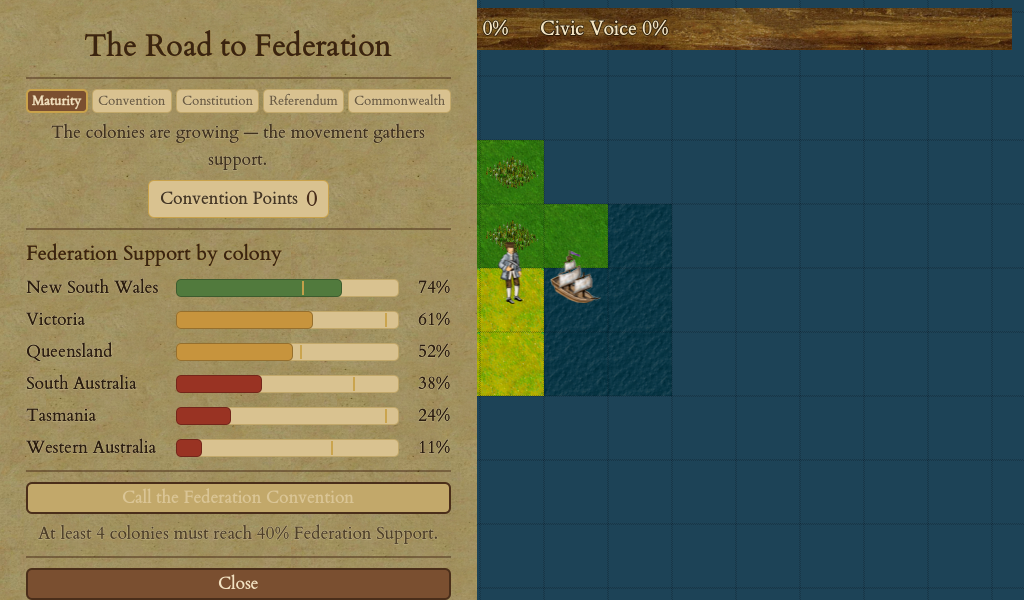
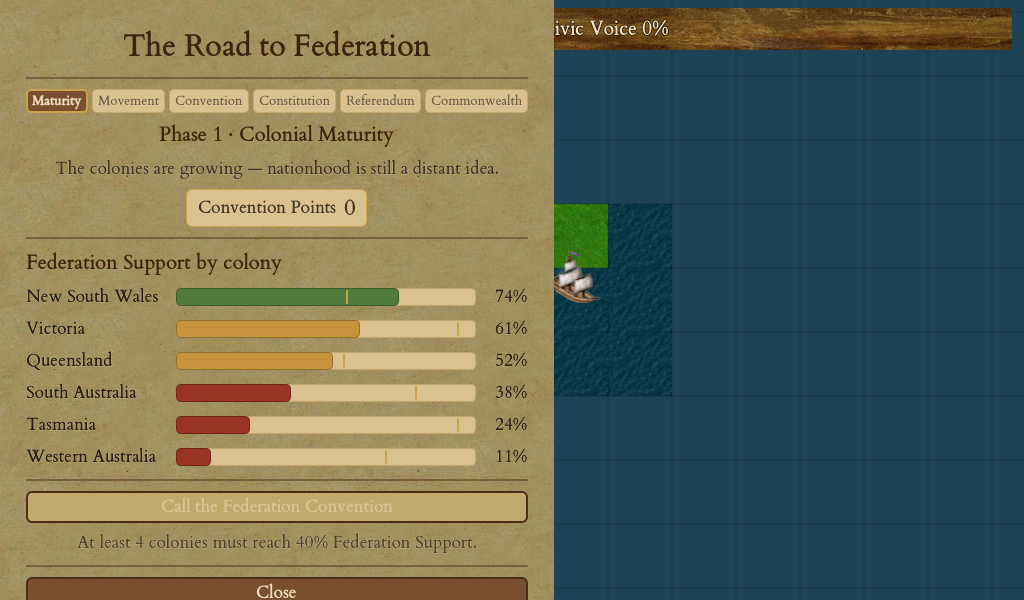
feat(australia): WS3.8 — six named Federation stages + era indicator
Federation depth (WS3), presentation-only. The design (doc 05) has six
narrative phases; the mechanical FederationPhase machine has five states.
A new pure oracle Game.CurrentFederationStage maps the mechanical state to
the six named stages (Colonial Maturity, Federation Movement, Convention
Process, Draft Constitution, Referendums, Commonwealth), splitting the two
that share the ColonialMaturity state by the calendar: Federation Movement
once the 1889+ Federation era begins (CurrentEventEra == EventEra.Federation,
reusing the 4c.10 era bands, not a magic year). Returns None for classic.

The FederationPanel phase tracker grew from five to six steps and gained a
gold era-indicator header ("Phase 2 · Federation Movement"); the narrative
line folds in design Phase 6 (Failure/Retry) after a failed vote.

No new game state (pure derived read, no save bump) so classic stays
byte-identical. +2 L1 (six-stage mapping incl. the 1889 Maturity to Movement
split + classic None) +2 L3 (six-step tracker + the era indicator names the
current phase, not a hard-coded one). Full L1/L2 2960 + determinism soak
green. Render-verified (australia-federation.png).

Changed region(s): [[0.0, 0.0, 0.5625, 1.0], [0.0625, 0.03, 0.4375, 0.09]]

diff --git a/game/presentation/FederationPanel.cs b/game/presentation/FederationPanel.cs
@@ -16,7 +16,8 @@ namespace CrownAndColony.Presentation;
 /// (<see cref="Specification.Ruleset.VictoryFederation"/> — false for classic, so the classic HUD is untouched).
 ///
 /// <para>Pure presentation (ADR-006): every reading comes from a <see cref="Game"/> oracle — per-region support
-/// (<see cref="Game.RegionSupportSummary"/>), the phase (<see cref="Game.FederationPhase"/>), the points
+/// (<see cref="Game.RegionSupportSummary"/>), the campaign stage (<see cref="Game.CurrentFederationStage"/> — the six
+/// named design phases), the points
 /// (<see cref="Game.ConventionPoints"/>), each region's own referendum target (<see cref="Game.ReferendumTargetFor"/>) and the two
 /// action gates (<see cref="Game.CheckCallConvention"/> / <see cref="Game.CheckPutToReferendum"/>). The only mutations are
 /// the forwarded commands (<see cref="Game.CallConvention"/> / <see cref="Game.HoldReferendum"/>); all the rules
@@ -51,14 +52,15 @@ public partial class FederationPanel : PanelContainer
     private static readonly Color SupportMid = new(0.78f, 0.58f, 0.24f);   // ochre/amber — climbing toward the bar
     private static readonly Color SupportReady = new(0.32f, 0.48f, 0.24f); // muted federation-green — at/over the referendum bar
 
-    /// <summary>The five phases of the road to Federation, in journey order, for the step tracker.</summary>
-    private static readonly (FederationPhase Phase, string Label)[] PhaseSteps =
+    /// <summary>The six narrative stages of the road to Federation (design doc 05), in journey order, for the step tracker (WS3.8).</summary>
+    private static readonly (FederationStage Stage, string Label)[] StageSteps =
     {
-        (FederationPhase.ColonialMaturity, "Maturity"),
-        (FederationPhase.ConventionCalled, "Convention"),
-        (FederationPhase.ConstitutionDrafted, "Constitution"),
-        (FederationPhase.Referendum, "Referendum"),
-        (FederationPhase.Commonwealth, "Commonwealth"),
+        (FederationStage.ColonialMaturity, "Maturity"),
+        (FederationStage.FederationMovement, "Movement"),
+        (FederationStage.ConventionProcess, "Convention"),
+        (FederationStage.DraftConstitution, "Constitution"),
+        (FederationStage.Referendum, "Referendum"),
+        (FederationStage.Commonwealth, "Commonwealth"),
     };
 
     /// <summary>The six colony regions' display names, keyed by their <c>model.region.*</c> key (Australia-only; hard-coded).</summary>
@@ -125,14 +127,29 @@ public partial class FederationPanel : PanelContainer
         Show();
     }
 
-    /// <summary>The current phase's player-facing narrative sentence (Australian narrative), read from the <see cref="Game.FederationPhase"/> oracle.</summary>
-    private static string PhaseName(FederationPhase phase) => phase switch
+    /// <summary>The design phase number + name for the era indicator (WS3.8 — doc 05's six named phases).</summary>
+    private static (int Number, string Name) StageHeading(FederationStage stage) => stage switch
     {
-        FederationPhase.ColonialMaturity => "The colonies are growing — the movement gathers support.",
-        FederationPhase.ConventionCalled => "The Federation Convention has been called — the constitution is being drafted.",
-        FederationPhase.ConstitutionDrafted => "The draft constitution is complete — a referendum may be held.",
-        FederationPhase.Referendum => "A Federation referendum is under way.",
-        FederationPhase.Commonwealth => "The Commonwealth of Australia is proclaimed — Federation is achieved!",
+        FederationStage.ColonialMaturity => (1, "Colonial Maturity"),
+        FederationStage.FederationMovement => (2, "Federation Movement"),
+        FederationStage.ConventionProcess => (3, "Convention Process"),
+        FederationStage.DraftConstitution => (4, "Draft Constitution"),
+        FederationStage.Referendum => (5, "Referendums"),
+        FederationStage.Commonwealth => (6, "Commonwealth"),
+        _ => (0, ""),
+    };
+
+    /// <summary>The current stage's player-facing narrative sentence (WS3.8), read from the <see cref="Game.CurrentFederationStage"/> oracle. The Referendum stage folds in design Phase 6 (Failure and Retry) after a failed vote.</summary>
+    private string StageNarrative(FederationStage stage) => stage switch
+    {
+        FederationStage.ColonialMaturity => "The colonies are growing — nationhood is still a distant idea.",
+        FederationStage.FederationMovement => "The Federation movement is astir — leagues and orators press the cause across the colonies.",
+        FederationStage.ConventionProcess => "The Federation Convention has been called — the constitution is being drafted.",
+        FederationStage.DraftConstitution => "The draft constitution is complete — a referendum may be held.",
+        FederationStage.Referendum => _game.ReferendumAttempts > 0 && !_game.ReferendumCarried
+            ? "The last referendum failed — the movement must rebuild support before trying again."
+            : "A Federation referendum is under way.",
+        FederationStage.Commonwealth => "The Commonwealth of Australia is proclaimed — Federation is achieved!",
         _ => "",
     };
 
@@ -141,12 +158,26 @@ public partial class FederationPanel : PanelContainer
     {
         ClearBody();
 
-        _body.AddChild(BuildPhaseTracker(_game.FederationPhase));
+        FederationStage stage = _game.CurrentFederationStage; // WS3.8: the design's six named phases, mapped from the mechanical state
+        _body.AddChild(BuildPhaseTracker(stage));
+
+        // Era indicator: names the current design phase ("Phase 2 · Federation Movement") above the narrative line.
+        (int number, string name) = StageHeading(stage);
+        if (number > 0)
+        {
+            _body.AddChild(new Label
+            {
+                Name = "StageName",
+                Text = $"Phase {number} · {name}",
+                HorizontalAlignment = HorizontalAlignment.Center,
+                ThemeTypeVariation = "SectionHeader", // the theme's section-header variation (gold, larger)
+            });
+        }
 
         var phaseLine = new Label
         {
             Name = "PhaseLine",
-            Text = PhaseName(_game.FederationPhase),
+            Text = StageNarrative(stage),
             HorizontalAlignment = HorizontalAlignment.Center,
             AutowrapMode = TextServer.AutowrapMode.WordSmart,
         };
@@ -172,27 +203,28 @@ public partial class FederationPanel : PanelContainer
     }
 
     /// <summary>
-    /// The five-step phase tracker: one chip per stage of the road to Federation, in journey order. The stage the movement
-    /// has reached is lit (wood face + gold edge, cream text); completed stages read as filled dark wood; stages still ahead
-    /// sit as dim recessed parchment — so the player sees at a glance how far the movement has come.
+    /// The six-step phase tracker (WS3.8 — doc 05's named stages): one chip per stage of the road to Federation, in journey
+    /// order. The stage the movement has reached is lit (wood face + gold edge, cream text); completed stages read as filled
+    /// dark wood; stages still ahead sit as dim recessed parchment — so the player sees at a glance how far the movement has
+    /// come. Driven by <see cref="Game.CurrentFederationStage"/> (which splits Maturity vs Movement by the calendar).
     /// </summary>
-    private Control BuildPhaseTracker(FederationPhase current)
+    private Control BuildPhaseTracker(FederationStage current)
     {
-        int currentIndex = Array.FindIndex(PhaseSteps, s => s.Phase == current);
+        int currentIndex = Array.FindIndex(StageSteps, s => s.Stage == current);
         var tracker = new HBoxContainer { Name = "PhaseTracker", Alignment = BoxContainer.AlignmentMode.Center };
         tracker.AddThemeConstantOverride("separation", 4);
 
-        for (int i = 0; i < PhaseSteps.Length; i++)
+        for (int i = 0; i < StageSteps.Length; i++)
         {
             bool active = i == currentIndex;
             bool done = i < currentIndex;
             Color bg = active ? WoodMid : done ? WoodDark : ParchmentDark;
             Color border = active ? Gold : ParchmentEdge;
 
-            var chip = new PanelContainer { Name = $"Phase_{PhaseSteps[i].Phase}" };
+            var chip = new PanelContainer { Name = $"Phase_{StageSteps[i].Stage}" };
             chip.AddThemeStyleboxOverride("panel", Flat(bg, border, active ? 2 : 1, 4, 6, 3));
 
-            var label = new Label { Text = PhaseSteps[i].Label, HorizontalAlignment = HorizontalAlignment.Center };
+            var label = new Label { Text = StageSteps[i].Label, HorizontalAlignment = HorizontalAlignment.Center };
             label.AddThemeColorOverride("font_color", active || done ? TextOnWood : new Color(Ink, 0.62f)); // future stages dimmed but legible
             label.AddThemeFontSizeOverride("font_size", 13);
             chip.AddChild(label);

diff --git a/game/presentation/tests/FederationPanelTests.cs b/game/presentation/tests/FederationPanelTests.cs
@@ -1,6 +1,7 @@
 using System.Threading.Tasks;
 using CrownAndColony.GameLogic.Colonies;
 using CrownAndColony.GameLogic.GameSession;
+using CrownAndColony.GameLogic.Persistence;
 using CrownAndColony.GameLogic.Specification;
 using CrownAndColony.GameLogic.Units;
 using CrownAndColony.GameLogic.World;
@@ -88,10 +89,12 @@ public class FederationPanelTests
         await runner.SimulateFrames(1);
 
         var body = panel.GetNode<VBoxContainer>($"VBox/{FederationPanel.BodyName}");
-        // The five-step phase tracker, with a chip per phase.
+        // The six-step phase tracker (WS3.8 — doc 05's named stages), with a chip per stage.
         var tracker = body.GetNodeOrNull<HBoxContainer>("PhaseTracker");
         AssertThat(tracker).IsNotNull();
-        AssertThat(tracker!.GetChildCount()).IsEqual(5);
+        AssertThat(tracker!.GetChildCount()).IsEqual(6);
+        // The era indicator names the current design phase.
+        AssertThat(body.GetNode<Label>("StageName").Text).Contains("Colonial Maturity"); // a fresh 1788 game → Phase 1
         // Each region's bar is a styled gauge (recessed trough + coloured fill), not a stock ProgressBar.
         var bar = body.GetNode<ProgressBar>("Region_newSouthWales/Bar");
         AssertThat(bar.HasThemeStyleboxOverride("fill")).IsTrue();
@@ -100,6 +103,31 @@ public class FederationPanelTests
         AssertThat(bar.GetNodeOrNull("ReferendumMark")).IsNotNull();
         // The title carries the theme's display-title variation (designed hierarchy).
         AssertThat(panel.GetNode<Label>("VBox/FederationTitle").ThemeTypeVariation.ToString()).IsEqual("ColonyTitle");
+
+        panel.QueueFree();
+    }
+
+    [TestCase]
+    public async Task Open_NamesTheCurrentDesignPhase_AsAnEraIndicator_NotHardcoded()
+    {
+        // WS3.8: the era indicator names the design phase for the current mechanical state. Advance to ConstitutionDrafted
+        // via the save layer (public) so the label must read Game.CurrentFederationStage, not a hard-coded Phase 1.
+        ISceneRunner runner = ISceneRunner.Load("res://scenes/MainMenu.tscn");
+        await runner.SimulateFrames(2);
+        var host = (Control)runner.Scene();
+
+        Game game = NewAustralia();
+        FoundIn(game, AustraliaColony.NewSouthWales);
+        Game drafted = (SaveGame.From(game, "australia") with { FederationPhase = (int)FederationPhase.ConstitutionDrafted })
+            .Restore(Australia);
+        FederationPanel panel = AddPanel(host);
+
+        panel.Open(drafted, () => { });
+        await runner.SimulateFrames(1);
+
+        var stageName = panel.GetNode<Label>($"VBox/{FederationPanel.BodyName}/StageName");
+        AssertThat(stageName.Text).Contains("Phase 4");
+        AssertThat(stageName.Text).Contains("Draft Constitution");
 
         panel.QueueFree();
     }

diff --git a/game/tests/GameLogic.Tests/GameSession/FederationVictoryTests.cs b/game/tests/GameLogic.Tests/GameSession/FederationVictoryTests.cs
@@ -310,6 +310,39 @@ public class FederationVictoryTests
         Assert.Equal(94, restored.ReferendumTargetFor("model.region.tasmania")); // untouched regions keep their base target
     }
 
+    // ─────────────────────────────── narrative stages (WS3.8) ───────────────────────────────
+
+    [Fact]
+    public void CurrentFederationStage_MapsTheMechanicalPhase_ToTheSixDesignStages()
+    {
+        Assert.Equal(FederationStage.None, Game.New(Classic, Seed).CurrentFederationStage); // classic — no campaign
+
+        Game game = NewAustralia();
+        // A fresh 1788 Australia game: mechanical ColonialMaturity, before the 1889 Federation era → Colonial Maturity.
+        Assert.Equal(FederationStage.ColonialMaturity, game.CurrentFederationStage);
+
+        game.SetFederationPhase(FederationPhase.ConventionCalled);
+        Assert.Equal(FederationStage.ConventionProcess, game.CurrentFederationStage);
+        game.SetFederationPhase(FederationPhase.ConstitutionDrafted);
+        Assert.Equal(FederationStage.DraftConstitution, game.CurrentFederationStage);
+        game.SetFederationPhase(FederationPhase.Referendum);
+        Assert.Equal(FederationStage.Referendum, game.CurrentFederationStage);
+        game.SetFederationPhase(FederationPhase.Commonwealth);
+        Assert.Equal(FederationStage.Commonwealth, game.CurrentFederationStage);
+    }
+
+    [Fact]
+    public void CurrentFederationStage_IsFederationMovement_OnceThe1889EraBegins_WhileStillAtColonialMaturity()
+    {
+        // Advance an Australia game into the 1889+ Federation era (via the save layer's turn) while still mechanically at
+        // ColonialMaturity → the narrative stage becomes Federation Movement (design Phase 2, the same mechanical state).
+        Game game = NewAustralia();
+        Game late = (SaveGame.From(game, "australia") with { Turn = 140 }).Restore(Australia); // turn 140 = 1889+ on the Australian calendar
+        Assert.True(late.CurrentYear >= 1889, "turn 140 must sit in the 1889+ Federation era");
+        Assert.Equal(FederationPhase.ColonialMaturity, late.FederationPhase); // still mechanically at maturity
+        Assert.Equal(FederationStage.FederationMovement, late.CurrentFederationStage);
+    }
+
     [Fact]
     public void FederationState_RoundTripsThroughASave()
     {

diff --git a/game/src/GameLogic/GameSession/Game.Federation.cs b/game/src/GameLogic/GameSession/Game.Federation.cs
@@ -103,6 +103,36 @@ public sealed partial class Game
     public FederationPhase FederationPhase => _federationPhase;
 
     /// <summary>
+    /// The current player-facing <b>narrative stage</b> of the Federation campaign (WS3.8) — the design's six named phases
+    /// (doc 05) mapped from the mechanical <see cref="FederationPhase"/> plus the calendar. Within
+    /// <see cref="FederationPhase.ColonialMaturity"/> the stage is <see cref="FederationStage.FederationMovement"/> once the
+    /// 1889+ Federation era has begun (<see cref="CurrentEventEra"/> = <see cref="EventEra.Federation"/>), else
+    /// <see cref="FederationStage.ColonialMaturity"/>; the other mechanical states map one-to-one. A pure, RNG-free read
+    /// (no persisted state) the Federation panel labels its phase tracker + era indicator from (ADR-006).
+    /// <see cref="FederationStage.None"/> for a classic game (no Federation campaign), so nothing is shown there.
+    /// </summary>
+    public FederationStage CurrentFederationStage
+    {
+        get
+        {
+            if (!Ruleset.VictoryFederation)
+            {
+                return FederationStage.None; // classic — no Federation campaign
+            }
+            return _federationPhase switch
+            {
+                FederationPhase.ColonialMaturity =>
+                    CurrentEventEra == EventEra.Federation ? FederationStage.FederationMovement : FederationStage.ColonialMaturity,
+                FederationPhase.ConventionCalled => FederationStage.ConventionProcess,
+                FederationPhase.ConstitutionDrafted => FederationStage.DraftConstitution,
+                FederationPhase.Referendum => FederationStage.Referendum,
+                FederationPhase.Commonwealth => FederationStage.Commonwealth,
+                _ => FederationStage.ColonialMaturity,
+            };
+        }
+    }
+
+    /// <summary>
     /// The nation-level <b>Convention Points</b> banked toward drafting the constitution and calling a convention
     /// (Phase-4a). Accrues alongside Federation Support from the human's Civic Voice; 0 for a classic game. Persisted
     /// (v72, omitted when 0).

diff --git a/game/src/GameLogic/GameSession/FederationPhase.cs b/game/src/GameLogic/GameSession/FederationPhase.cs
@@ -50,3 +50,37 @@ public enum FederationPhase
     /// </summary>
     Commonwealth = 4,
 }
+
+/// <summary>
+/// The player-facing <b>narrative stage</b> of the Federation campaign (WS3.8) — the design's six named phases
+/// (doc 05: Colonial Maturity → Federation Movement → Convention Process → Draft Constitution → Referendums → the
+/// Commonwealth win), mapped from the coarser mechanical <see cref="FederationPhase"/> by
+/// <see cref="Game.CurrentFederationStage"/>. Two of them share one mechanical state and are told apart by context:
+/// <see cref="ColonialMaturity"/> vs <see cref="FederationMovement"/> (the movement is under way once the 1889+ Federation
+/// era has begun — <see cref="Game.EventEra.Federation"/>), both within <see cref="FederationPhase.ColonialMaturity"/>.
+/// Design Phase 6 (Failure and Retry) is not a forward stage — it is surfaced in the panel's narrative when a referendum
+/// has failed. Pure presentation labelling (no persisted state); <see cref="None"/> for a classic game (no campaign).
+/// </summary>
+public enum FederationStage
+{
+    /// <summary>Not a Federation game (classic) — there is no campaign stage to show.</summary>
+    None,
+
+    /// <summary>Design Phase 1 — the colonies grow and mature toward nationhood (before the 1889 Federation era).</summary>
+    ColonialMaturity,
+
+    /// <summary>Design Phase 2 — the Federation movement gathers (the 1889+ Federation era), before a convention is called.</summary>
+    FederationMovement,
+
+    /// <summary>Design Phase 3 — the Federation Convention sits and drafts the constitution.</summary>
+    ConventionProcess,
+
+    /// <summary>Design Phase 4 — the draft constitution is complete; a referendum may be put.</summary>
+    DraftConstitution,
+
+    /// <summary>Design Phase 5 — a referendum is under way (design Phase 6, Failure/Retry, is a narrative note here after a failed vote).</summary>
+    Referendum,
+
+    /// <summary>The Commonwealth is proclaimed — the human has won by Federation.</summary>
+    Commonwealth,
+}

diff --git a/docs/systems/federation-victory.md b/docs/systems/federation-victory.md
@@ -100,11 +100,12 @@ The point/support/reduction magnitudes are balance placeholders (see §5 — Chr
 *Audience: developers / future Claude sessions.*
 
 **Domain model:**
-- `FederationPhase` (enum) — the five-state machine; ordinal-persisted.
+- `FederationPhase` (enum) — the five-state mechanical machine; ordinal-persisted.
+- `FederationStage` (enum, WS3.8) — the design's **six named narrative phases** (Colonial Maturity → Federation Movement → Convention Process → Draft Constitution → Referendums → Commonwealth). A presentation view, not persisted; derived by `Game.CurrentFederationStage` (pure read, `None` for classic) which splits Maturity vs Movement on `CurrentEventEra == EventEra.Federation` (the 1889+ band).
 - `Game.Federation.cs` (partial `Game`) — owns the phase, Convention Points, referendum state, the accrual hook, the per-region aggregates, the action commands/gates, and the end-turn resolution. Pure C#, engine-free (ADR-006).
 - `Colony.FederationSupport` / `AddFederationSupport` / `FederationSupportPercent` — the per-colony banked support, modelled exactly on `Liberty` / `AddLiberty` / `SonsOfLiberty`.
 - **Per-region targets (WS3.2):** `Ruleset.FederationRegionTargets` (region key → target %, parsed from the spec) holds each region's historical referendum bar; `Game.ReferendumTargetFor(regionKey)` = base target (or the uniform `RegionSupportForReferendum` = 50 fallback) minus any banked reduction, clamped 0–100; `Game.ReduceFederationTarget` / `ReduceHardestRegionTarget` bank Pioneer target cuts into the persisted `_federationTargetReductions` map. Classic authors no targets → every region reads the uniform fallback (byte-identical).
-- `FederationPanel` (presentation) — renders the oracles and forwards the two commands; no rules. **Designed treatment (WS2.7):** on the parchment/wood theme it shows a five-step **phase tracker** (the current stage lit), each colony's support as a **styled gauge** (recessed trough, support-coloured fill — barn-red / ochre / federation-green by how it sits against the referendum bar — and a gold **threshold marker** at the bar, read from the new `Game.ReferendumSupportThreshold` oracle), a gold-edged **Convention Points** chip, and title/header in the theme's `ColonyTitle`/`SectionHeader` variations. Pure presentation (colours re-declared locally from `ColonyTheme`, the `EuropePanel` precedent).
+- `FederationPanel` (presentation) — renders the oracles and forwards the two commands; no rules. **Designed treatment (WS2.7; six-stage tracker + era indicator WS3.8):** on the parchment/wood theme it shows a six-step **phase tracker** (the current design stage lit) with a gold **era-indicator** header ("Phase 2 · Federation Movement"), each colony's support as a **styled gauge** (recessed trough, support-coloured fill — barn-red / ochre / federation-green by how it sits against the referendum bar — and a gold **threshold marker** at the bar, read from the new `Game.ReferendumSupportThreshold` oracle), a gold-edged **Convention Points** chip, and title/header in the theme's `ColonyTitle`/`SectionHeader` variations. Pure presentation (colours re-declared locally from `ColonyTheme`, the `EuropePanel` precedent).
 - `PioneerAttainedPanel` (presentation, WS2.7) — the Historical-Figure-attained celebration modal. On electing a Founding Father / Pioneer it names the figure, the body joined (`CongressName`), their design category, a lore line, and a plain-English perk summary. `GameController` opens it when the human's `Congress` grows (Australia-only, gated on `Ruleset.VictoryFederation`). No rules; reads the ruleset only. Centred by absolute position off `GetViewportRect` and content-hugged (autowrap labels pin a width) — the code-built-overlay positioning contract.
 
 **Data sources:** `game/data/rules/australia/specification.xml` → `gameOptions.victoryConditions` → `model.option.victoryFederation` (`true` for Australia). Parsed in `Ruleset.cs` (`ParseBooleanOption`, fallback `false`) into `Ruleset.VictoryFederation`. Classic ships no such option, so it defaults false. **WS3.2:** the same group carries the six `model.option.federationTarget.<region-suffix>` integer options (NSW 57 / Vic 94 / Qld 56 / SA 80 / Tas 94 / WA 70), parsed by `Ruleset.ParseFederationRegionTargets` (id-suffix → region key) into `Ruleset.FederationRegionTargets`; classic authors none → empty dictionary → uniform-bar fallback (ADR-018 variant data; classic byte-identical).
@@ -133,9 +134,9 @@ The Convention-Points sub-point remainder (`_conventionPointsHundredths`) is **e
 
 | Layer | Required? | Tests / goldens | Status |
 |---|---|---|---|
-| L1 Unit | Always | `FederationVictoryTests` — option parse; classic accrues nothing; accrual from Civic Voice; region aggregate; phase gates/advances; referendum determinism; persistence round-trip + classic-omits-tokens. **WS3.2:** the six per-region targets parse (empty for classic); `ReferendumTargetFor` returns them and falls back to the uniform 50; the referendum gate blocks a region at 90% whose target is 94; a Barton target reduction (57→54) round-trips through a v73 save and is absent before any election. **`AustralianContentTests` (Phase-4d.7)** — the five Democracy Pioneers carry their Australia-only ability (classic has none); electing Parkes lifts every colony; electing Barton/Griffith bank Convention Points; electing Spence lifts the small colonies (SA/Tas/WA) more than the no-Spence control and leaves NSW/Vic untouched; Quick's relief flips a marginal referendum (seed 25) and never turns a carrying vote into a failure. | ✅ |
+| L1 Unit | Always | `FederationVictoryTests` — option parse; classic accrues nothing; accrual from Civic Voice; region aggregate; phase gates/advances; referendum determinism; persistence round-trip + classic-omits-tokens. **WS3.2:** the six per-region targets parse (empty for classic); `ReferendumTargetFor` returns them and falls back to the uniform 50; the referendum gate blocks a region at 90% whose target is 94; a Barton target reduction (57→54) round-trips through a v73 save and is absent before any election. **WS3.8:** `CurrentFederationStage` maps each mechanical phase to its design stage, splits Colonial Maturity vs Federation Movement at the 1889 era boundary, and returns `None` for classic. **`AustralianContentTests` (Phase-4d.7)** — the five Democracy Pioneers carry their Australia-only ability (classic has none); electing Parkes lifts every colony; electing Barton/Griffith bank Convention Points; electing Spence lifts the small colonies (SA/Tas/WA) more than the no-Spence control and leaves NSW/Vic untouched; Quick's relief flips a marginal referendum (seed 25) and never turns a carrying vote into a failure. | ✅ |
 | L2 Scenario | Always | `FederationVictoryTests.FullySupportedFederation_ReachesTheCommonwealthWin_ViaWinner` (full loop → `Game.Winner`); the Phase-4d.7 Pioneer tests elect each figure in a live Australia-map game and assert its Federation effect; classic byte-stability proven by the global `SoakTests`. | ✅ |
-| L3 Interaction | Yes (has UI) | `FederationPanelTests` — renders phase + Convention Points + six region rows; Call-Convention disabled with reason until thresholds met; **WS2.7** the designed treatment is guarded (the five-step `PhaseTracker`, each region `Bar` carrying `fill`/`background` stylebox overrides + the `ReferendumMark`, the `ColonyTitle` title variation). **`PioneerAttainedPanelTests` (WS2.7)** — the celebration renders the figure name/body/category/perk and hugs its content (a sizing regression guard); electing a figure through a live `GameController` fires the popup automatically. | ✅ |
+| L3 Interaction | Yes (has UI) | `FederationPanelTests` — renders phase + Convention Points + six region rows; Call-Convention disabled with reason until thresholds met; **WS2.7** the designed treatment is guarded (the `PhaseTracker`, each region `Bar` carrying `fill`/`background` stylebox overrides + the `ReferendumMark`, the `ColonyTitle` title variation). **WS3.2:** each region's `ReferendumMark` anchors at its own target (NSW 0.57, Tas 0.94). **WS3.8:** the tracker has six steps and the `StageName` era indicator names the current design phase (Phase 4 · Draft Constitution when advanced), not a hard-coded one. **`PioneerAttainedPanelTests` (WS2.7)** — the celebration renders the figure name/body/category/perk and hugs its content (a sizing regression guard); electing a figure through a live `GameController` fires the popup automatically. | ✅ |
 | L4 Visual | Deferred (render-verified) | No committed pixel golden yet (golden regen is CI-Linux-only — a Windows render would fail the diff); the WS2.7 redesign was **render-verified** via the `DOCS_CAPTURE=1` capture (`docs/guide/img/australia-federation.png`). Classic goldens unaffected (button/panel invisible in classic). A committed golden can be regenerated on the CI runner when the panel-golden pipeline is confirmed stable. | ⬜ |
 | L5 Soak | Covered by global suite | `SoakTests` (25 seeds × 200 turns, classic) stays byte-identical — the Federation loop and every Pioneer effect are gated off. | ✅ |
 
@@ -160,6 +161,7 @@ The Convention-Points sub-point remainder (`_conventionPointsHundredths`) is **e
 
 | Date | Change | Commit |
 |---|---|---|
+| 2026-07-12 | **Six named campaign stages + era indicator (WS3.8 — Federation depth, presentation-only).** The design's six narrative phases (doc 05: Colonial Maturity → Federation Movement → Convention Process → Draft Constitution → Referendums → the Commonwealth win) are now shown, mapped from the coarser mechanical `FederationPhase` by a new pure oracle **`Game.CurrentFederationStage`** (returns the `FederationStage` enum; `None` for classic). Within the single mechanical `ColonialMaturity` state it distinguishes **Colonial Maturity** vs **Federation Movement** by the calendar — the movement is under way once the 1889+ Federation era has begun (`CurrentEventEra == EventEra.Federation`), reusing the 4c.10 era bands rather than a magic year. The `FederationPanel` phase tracker grew from five to **six** steps and gained a gold **era-indicator** header ("Phase 2 · Federation Movement"); the narrative line folds in design Phase 6 (Failure/Retry) after a failed vote. **No new game state** (a pure derived read, no save bump) → classic byte-identical. +2 L1 (`FederationVictoryTests`: the six-stage mapping incl. the 1889 Colonial-Maturity→Federation-Movement split and classic `None`) +2 L3 (`FederationPanelTests`: the six-step tracker + the era indicator names the current phase, not a hard-coded one). Render-verified (`australia-federation.png`). | (this commit) |
 | 2026-07-12 | **Per-colony historical referendum targets (WS3.2 — Federation depth).** The referendum gate was a uniform 50% for every colony; it is now each region's own historical target (NSW 57 / Vic 94 / Qld 56 / SA 80 / Tas 94 / WA 70), authored as Australia variant data in `specification.xml` (`model.option.federationTarget.*`) and parsed into `Ruleset.FederationRegionTargets`; the convention counter deliberately stays a uniform 40% (a separate design Phase-3 number). New `Game.ReferendumTargetFor(regionKey)` oracle (base target − banked reduction, clamped 0–100; falls back to the uniform 50 when a region/ruleset authors no target). `CheckPutToReferendum` now requires every settled region at ≥ its own target — a deliberate **difficulty increase** (Tasmania/Victoria need 94%, not 50%). The three "target −N" Pioneer clauses were **flipped from the WS4.4 +support proxy to real target reductions**: Barton lowers NSW's target by 3, Griffith the hardest settled region's by 5, Mary Lee South Australia's by 5 (banked in the persisted `_federationTargetReductions` map; Angas/Parkes/Spence stay +support). The `FederationPanel`'s per-region gauge marker + readiness colour now read each region's own target (NSW greens at 57%, Tas/Vic at 94%). SaveGame **v73**: `FederationTargetReductions` slice, omit-when-default (classic + no-Pioneer Australia game byte-identical; `AddFederationSupportToHardestColony` removed as dead code). +6 L1/L2 (`FederationVictoryTests`: target parse, `ReferendumTargetFor` fallback, per-region gate blocks a 90%-but-target-94 region, target-reduction save round-trip; `AustralianContentTests`: Barton/Griffith/Mary Lee lower targets). Render-verified (`australia-federation.png` — per-region markers). Full L1/L2 2958 + determinism soak + L3 `FederationPanelTests` green. Locked defaults approved by Chris (2026-07-12): the six targets as-is, flip all three clauses. | (this commit) |
 | 2026-07-12 | **Historical-Figure-attained celebration popup (WS2.7 UI polish, presentation-only)** — electing a Founding Father / Australian Pioneer was previously only a buried line in the History log. A small parchment modal (`PioneerAttainedPanel`, built in code like `FederationPanel`, added to the `UI` layer) now marks the moment: the figure's name and the body they join (the variant's `CongressName` — "Federation Convention" for Australia), their design category (Trade→"Industry & Commerce", Exploration→"Exploration & Infrastructure", Military→"Settlement, Administration & Defence", Political→"Democracy & Federation", Religious→"Social Reform & First Nations"), a lore line, and a plain-English perk summary (mirrors the Colopedia father-effect line; goods/unit names read through the variant `DisplayOverrides`). `GameController` detects a new `Congress` member each `RefreshView` (tracking `_lastCongressCount`) and opens it, **gated on `Ruleset.VictoryFederation`** so the classic game never shows it — classic UI untouched, no rules change (ADR-006). Centred over the viewport by absolute position off `GetViewportRect` (a code-built centre-anchored overlay corner-pins against its 0-size `CanvasLayer` parent) and sized to hug its content (autowrap labels carry a pinned width so their min-height isn't computed one-char-wide, which had ballooned the card to full height). +2 L3 (`PioneerAttainedPanelTests`: the panel renders name/body/category/perk and hugs its content; electing a figure through a live controller fires the celebration) — the content-hug assertion is a regression guard for the sizing bug. Render-verified (`docs/guide/img/australia-pioneer-attained.png`). This completes the WS2.7 UI-polish pass. | (this commit) |
 | 2026-07-11 | **Colony-maturity tier in the colony header (WS2.7 UI polish, presentation-only)** — the existing `Game.SettlementMaturityOf` oracle (Outpost → Township → Colonial Town → Colonial Capital) was computed but surfaced nowhere; the Australian colony screen now shows the tier on the header info line (`ColonyPanel` `VBox/ColonyInfo`, a presentation `MaturityLabel` enum→name map). **Australia-only** (gated on `Ruleset.VictoryFederation`), so the classic colony header is unchanged. +1 L3 (`AustraliaReskinPanelTests`: a fresh Australia colony reads "Outpost" in its header). Render-verified (`docs/guide/img/australia-colony.png`). | (this commit) |

diff --git a/PostWorkSummary.md b/PostWorkSummary.md
@@ -19,6 +19,21 @@ A running, at-a-glance log of what Claude completed after each prompt / area of 
 
 ---
 
+## 2026-07-12 — WS3.8: six named campaign stages + era indicator (Federation depth, UI)
+
+**Requested (Chris):** "3.8 go" — the six-phase mapping + era indicator (the low-sign-off, presentation-only WS3 task).
+**Did:**
+- **New pure oracle `Game.CurrentFederationStage`** (`FederationStage` enum) mapping the coarse 5-state mechanical `FederationPhase` onto the design's **six named phases** (doc 05: Colonial Maturity → Federation Movement → Convention Process → Draft Constitution → Referendums → Commonwealth). Splits the two that share the `ColonialMaturity` mechanical state by the calendar — **Federation Movement** once the 1889+ Federation era begins (`CurrentEventEra == EventEra.Federation`, reusing the 4c.10 era bands, no magic year). `None` for classic.
+- **FederationPanel** — the phase tracker grew from 5 to **6 steps** and gained a gold **era-indicator** header ("Phase 2 · Federation Movement"); the narrative line folds in design Phase 6 (Failure/Retry) after a failed vote. Render-verified (`australia-federation.png` — "Phase 1 · Colonial Maturity", six chips).
+- **No new game state** (pure derived read, no save bump) → classic byte-identical, no soak impact.
+**Status:** **verified, committing**. Build ✓; +2 L1 (`FederationVictoryTests`: six-stage mapping incl. the 1889 Maturity→Movement split + classic `None`) +2 L3 (`FederationPanelTests`: 6-step tracker + era indicator names the current phase, not hard-coded). Full L1/L2 + determinism soak + L3 green.
+**Changed:** `FederationPhase.cs` (+`FederationStage` enum), `Game.Federation.cs` (+`CurrentFederationStage` oracle), `FederationPanel.cs` (six-step tracker + era indicator), `FederationVictoryTests.cs` (+2), `FederationPanelTests.cs` (+2, tracker count 5→6), `federation-victory.md` (both layers + changelog + verification), `australia-federation.png`.
+**Decisions:** put the six-phase mapping in a testable GameLogic oracle (ADR-006), not scattered in the panel; reuse the existing `EventEra` bands for the 1889 movement signal rather than a hardcoded year; fold Failure/Retry into a narrative note (it's a loop-back, not a forward tracker step).
+**Scheduled next:** WS3 remaining — **WS3.7** phase-1/2 gates (needs Civic-Voice threshold numbers), **WS3.3** constitutional clauses (needs the clause costs/effects), **WS3.5/3.6/3.4** deferred. All in the kanban. Awaiting Chris's steer (or a numbers hand-off for WS3.3/3.7).
+**Needs you:** eyeball the six-stage tracker in `australia-federation.png` if you like. For WS3.3/WS3.7 I'll need the design numbers, or pick another stream. Sign-offs unchanged.
+
+---
+
 ## 2026-07-12 — WS3.2: per-colony historical Federation referendum targets (Federation depth)
 
 **Requested (Chris):** "WS3" (Federation depth). After a scoping workflow + two locked decisions from Chris (adopt the six documented targets as-is; flip all three "target −N" Pioneer clauses), implemented the foundational first task WS3.2.
